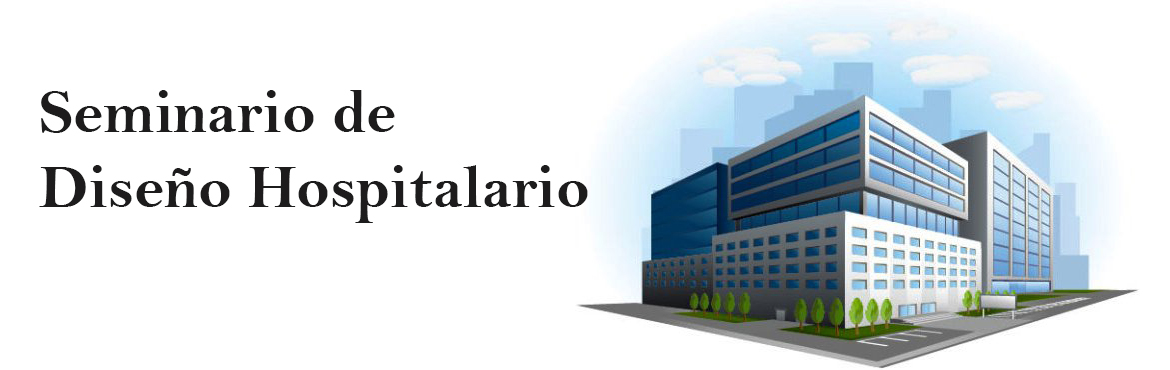
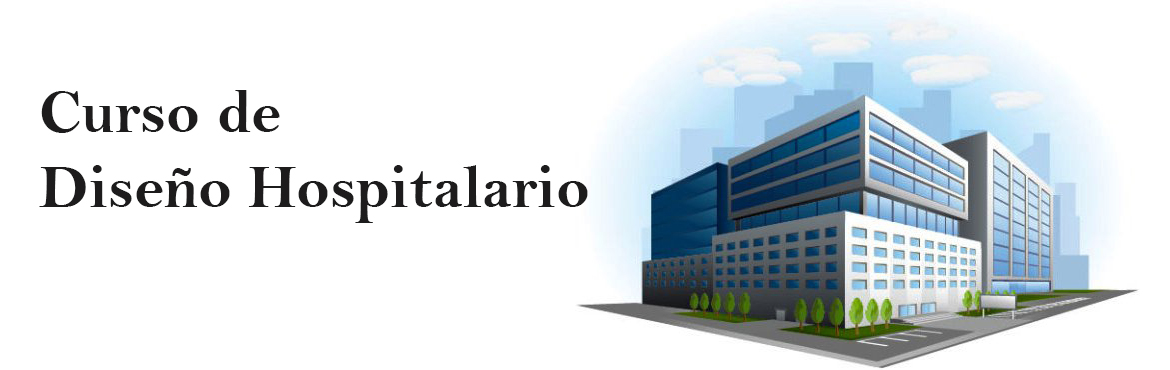
Cosas
Cambio banner, noticias y color

Changed region(s): [[0.0308, 0.2378, 0.3385, 0.3568]]

diff --git a/css/styles.css b/css/styles.css
@@ -87,7 +87,7 @@ p {
 blockquote {        
   color:#83adff;
   margin:15px 0px;
-  border-left:5px solid #fda056; 
+  border-left:5px solid #5696fd; 
 }
 
 a {
@@ -338,7 +338,7 @@ header {
 
 			#nav > ul
 			{
-				background-color: #0437d1;
+				background-color: #022284;
 			}
 				#nav > ul > li
 				{
@@ -360,7 +360,7 @@ header {
 						#nav > ul > li:hover > a,
 						#nav > ul:not( :hover ) > li.active > a
 						{
-							background-color:#0107a3;
+							background-color:#2c17b5;
 						}
 
 
@@ -368,7 +368,7 @@ header {
 
 				#nav li ul
 				{
-					background-color: #030ad1;
+					background-color:#2c17b5 ;
 					display: none;
 					position: absolute;
 					top: 100%;
